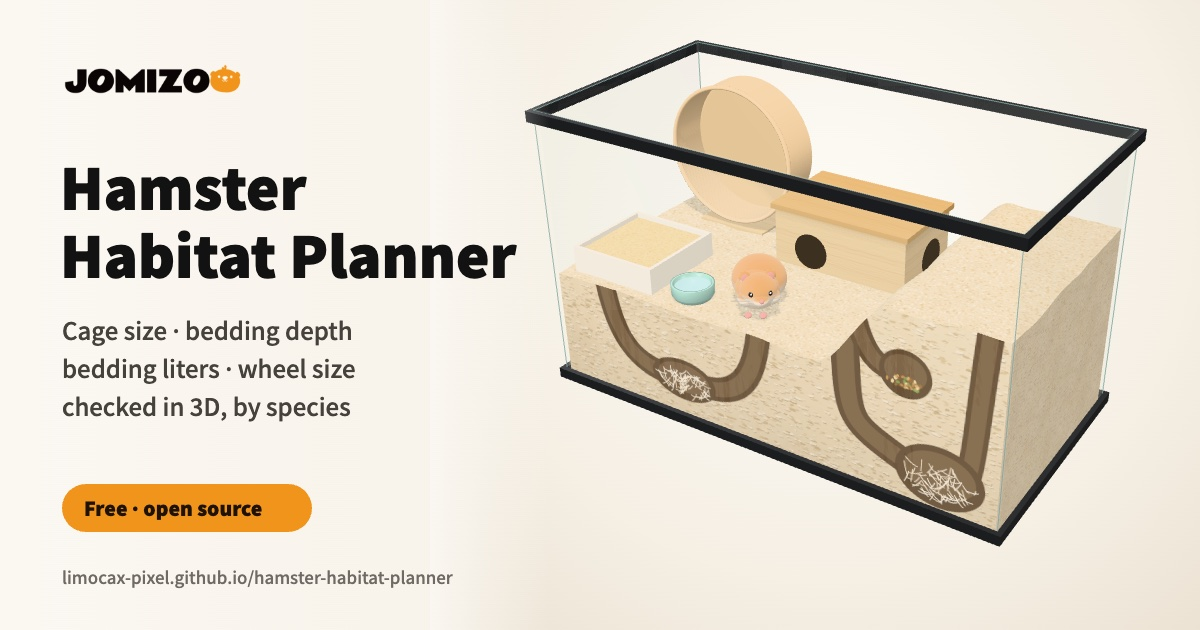
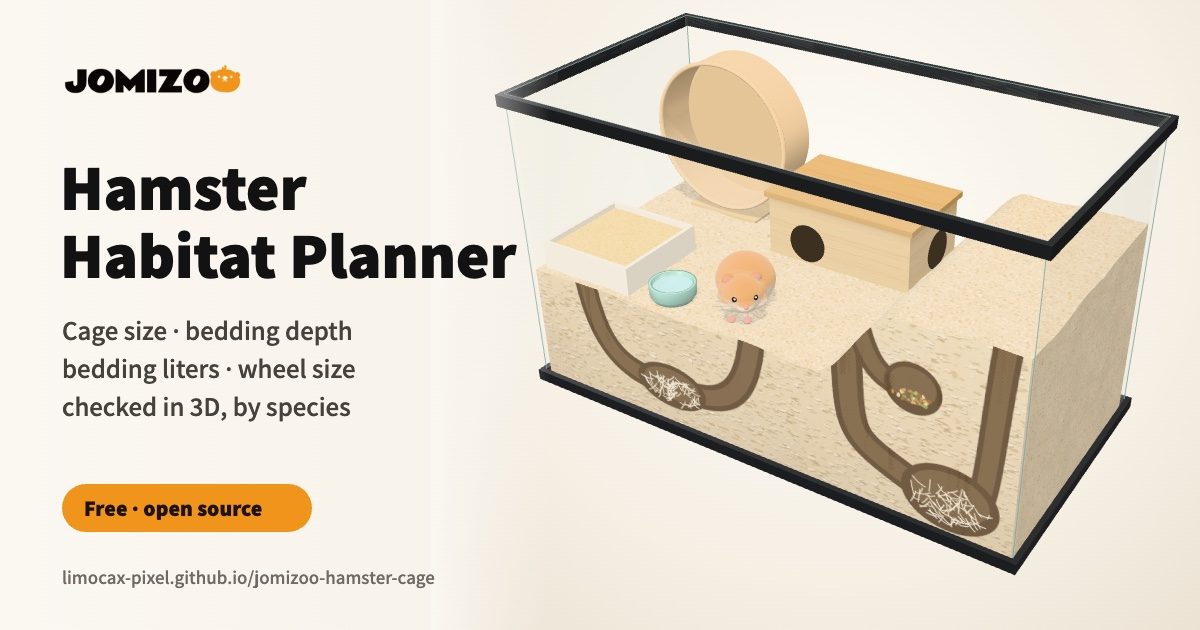
Rename project to jomizoo-hamster-cage
Repository, GitHub Pages URL, package name, citation, data URLs and the
share image now use jomizoo-hamster-cage. The page title stays
"Hamster Habitat Planner".

Changed region(s): [[0.4008, 0.0, 0.9867, 0.9048], [0.2158, 0.9048, 0.37, 0.9349]]

diff --git a/src/main.js b/src/main.js
@@ -15,7 +15,7 @@ const $$ = (selector, root = document) => [...root.querySelectorAll(selector)];
 const speciesById = new Map(speciesData.species.map((s) => [s.id, s]));
 const presets = new Map(enclosureData.presets.map((p) => [p.id, p]));
 const reducedMotion = matchMedia('(prefers-reduced-motion: reduce)').matches;
-const SHARE_HOST = 'limocax-pixel.github.io/hamster-habitat-planner';
+const SHARE_HOST = 'limocax-pixel.github.io/jomizoo-hamster-cage';
 
 let state = stateFromQuery(location.search, [...speciesById.keys()]) ?? defaultState();
 const species = () => speciesById.get(state.species);
@@ -342,7 +342,7 @@ $('#snapshot').addEventListener('click', async () => {
     if (!blob) return;
     const link = document.createElement('a');
     link.href = URL.createObjectURL(blob);
-    link.download = `hamster-habitat-${latest.sp.id}.png`;
+    link.download = `jomizoo-hamster-cage-${latest.sp.id}.png`;
     link.click();
     setTimeout(() => URL.revokeObjectURL(link.href), 1000);
   }, 'image/png');

diff --git a/src/prerender.js b/src/prerender.js
@@ -9,8 +9,8 @@ import {
 import { defaultState } from './state.js';
 
 export const SITE = {
-  url: 'https://limocax-pixel.github.io/hamster-habitat-planner/',
-  repo: 'https://github.com/limocax-pixel/hamster-habitat-planner',
+  url: 'https://limocax-pixel.github.io/jomizoo-hamster-cage/',
+  repo: 'https://github.com/limocax-pixel/jomizoo-hamster-cage',
   updated: '2026-09-25',
 };
 
@@ -51,7 +51,7 @@ export function buildJsonLd({ list, faq, dataVersion }) {
   };
   const code = {
     '@type': 'SoftwareSourceCode',
-    name: 'hamster-habitat-planner',
+    name: 'jomizoo-hamster-cage',
     codeRepository: SITE.repo,
     programmingLanguage: 'JavaScript',
     license: 'https://opensource.org/licenses/MIT',

diff --git a/README.md b/README.md
@@ -1,5 +1,5 @@
 <p align="center">
-  <a href="https://limocax-pixel.github.io/hamster-habitat-planner/">
+  <a href="https://limocax-pixel.github.io/jomizoo-hamster-cage/">
     <img src="public/og-image.jpg" alt="Hamster Habitat Planner: a 3D hamster tank with deep bedding and burrows visible through the glass" width="820">
   </a>
 </p>
@@ -10,7 +10,7 @@
 how many liters of bedding to buy, and whether the wheel is big enough and fits. For Syrian, Campbell's dwarf,
 winter white, hybrid dwarf, Roborovski and Chinese hamsters.
 
-**▶ Open the planner: https://limocax-pixel.github.io/hamster-habitat-planner/**
+**▶ Open the planner: https://limocax-pixel.github.io/jomizoo-hamster-cage/**
 
 Free, no sign-up, and everything runs in your browser. Made with love by [JOMIZOO](https://jomizoo.com/).
 
@@ -75,8 +75,8 @@ settled bedding.
 The numbers live in [`data/species.json`](data/species.json) and [`data/enclosures.json`](data/enclosures.json), and
 are also served from the site:
 
-- https://limocax-pixel.github.io/hamster-habitat-planner/data/species.json
-- https://limocax-pixel.github.io/hamster-habitat-planner/data/enclosures.json
+- https://limocax-pixel.github.io/jomizoo-hamster-cage/data/species.json
+- https://limocax-pixel.github.io/jomizoo-hamster-cage/data/enclosures.json
 
 Each species record has minimum floor space (`floor`), minimum height (`height`), bedding depth and burrowing depth
 (`bedding`), wheel diameter (`wheel`), maximum wire bar gap (`bars`), sand bath size (`sandBath`), room temperature
@@ -112,7 +112,7 @@ commercially, with credit to **JOMIZOO Hamster Habitat Planner** and a link.
 - **[fivelittlehams]** (2018). [How to calculate how much bedding is needed to fill your cage](https://fivelittlehams.wixsite.com/correcthamstercare/blank-1/2018/01/06/how-to-calculate-how-much-bedding-is-needed-to-fill-your-cage). Five Little Hams (keeper guide). Keeper estimate: a 50 L bag may only fill about 30 L once pressed down, so buy 1.5–2× the calculated volume.
 <!-- sources:end -->
 
-Found an error, a newer guideline or a better source? Please [open an issue](https://github.com/limocax-pixel/hamster-habitat-planner/issues)
+Found an error, a newer guideline or a better source? Please [open an issue](https://github.com/limocax-pixel/jomizoo-hamster-cage/issues)
 with a link to the source.
 
 ## Development
@@ -141,7 +141,7 @@ Pushing to `main` runs the tests and deploys to GitHub Pages with GitHub Actions
 
 ## Cite
 
-> JOMIZOO (2026). *Hamster Habitat Planner*. https://limocax-pixel.github.io/hamster-habitat-planner/
+> JOMIZOO (2026). *Hamster Habitat Planner*. https://limocax-pixel.github.io/jomizoo-hamster-cage/
 
 See [`CITATION.cff`](CITATION.cff).
 

diff --git a/data/LICENSE.md b/data/LICENSE.md
@@ -9,7 +9,7 @@ provide a link to the license, and indicate if changes were made.
 
 Suggested credit:
 
-> Data: JOMIZOO Hamster Habitat Planner (CC BY 4.0) — https://limocax-pixel.github.io/hamster-habitat-planner/
+> Data: JOMIZOO Hamster Habitat Planner (CC BY 4.0) — https://limocax-pixel.github.io/jomizoo-hamster-cage/
 
 The logo and brand assets in `public/brand/` are trademarks of JOMIZOO and are not covered by this license or by the
 MIT license of the code.
